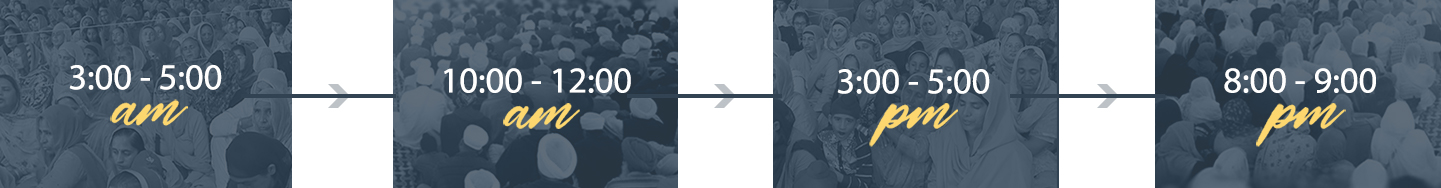
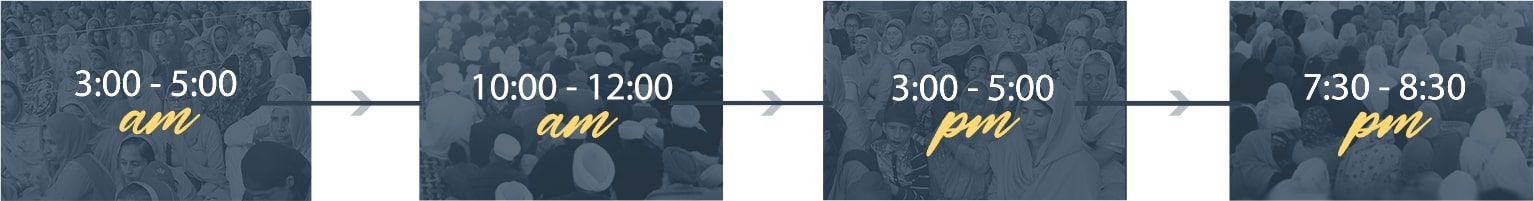
fix update timings fix radio play pause stop disabled bug Waheguru Ji

diff --git a/pages/live/live-radio.vue b/pages/live/live-radio.vue
@@ -212,13 +212,18 @@ export default Vue.extend({
   },
   computed: {
     isDisabledPlayPause() {
-      return this.radioState == RadioState.errored;
+      return (
+        this.radioState == RadioState.errored ||
+        this.radioState == RadioState.loading ||
+        this.radioState == RadioState.init
+      );
     },
     isDisabledStop() {
       return (
         this.radioState == RadioState.errored ||
         this.radioState == RadioState.init ||
         this.radioState == RadioState.stopped ||
+        this.radioState == RadioState.loading ||
         this.radioState == RadioState.ended
       );
     },
@@ -266,7 +271,6 @@ export default Vue.extend({
   },
   methods: {
     updateStateEvent(event) {
-      console.log(event.type);
       this.updateState(event.type);
     },
     disposePlayer() {

diff --git a/utils/constants.js b/utils/constants.js
@@ -42,7 +42,7 @@ export default {
   stopped: "Stopped. 🙏Press play to start.",
   errored: "Error!",
   ended: "Ended",
-  init: "🙏 Press play to start.",
+  init: "",
   headingOurMission: "Our Mission",
   headingAboutUs: "About Us",
   ourMissionText:
